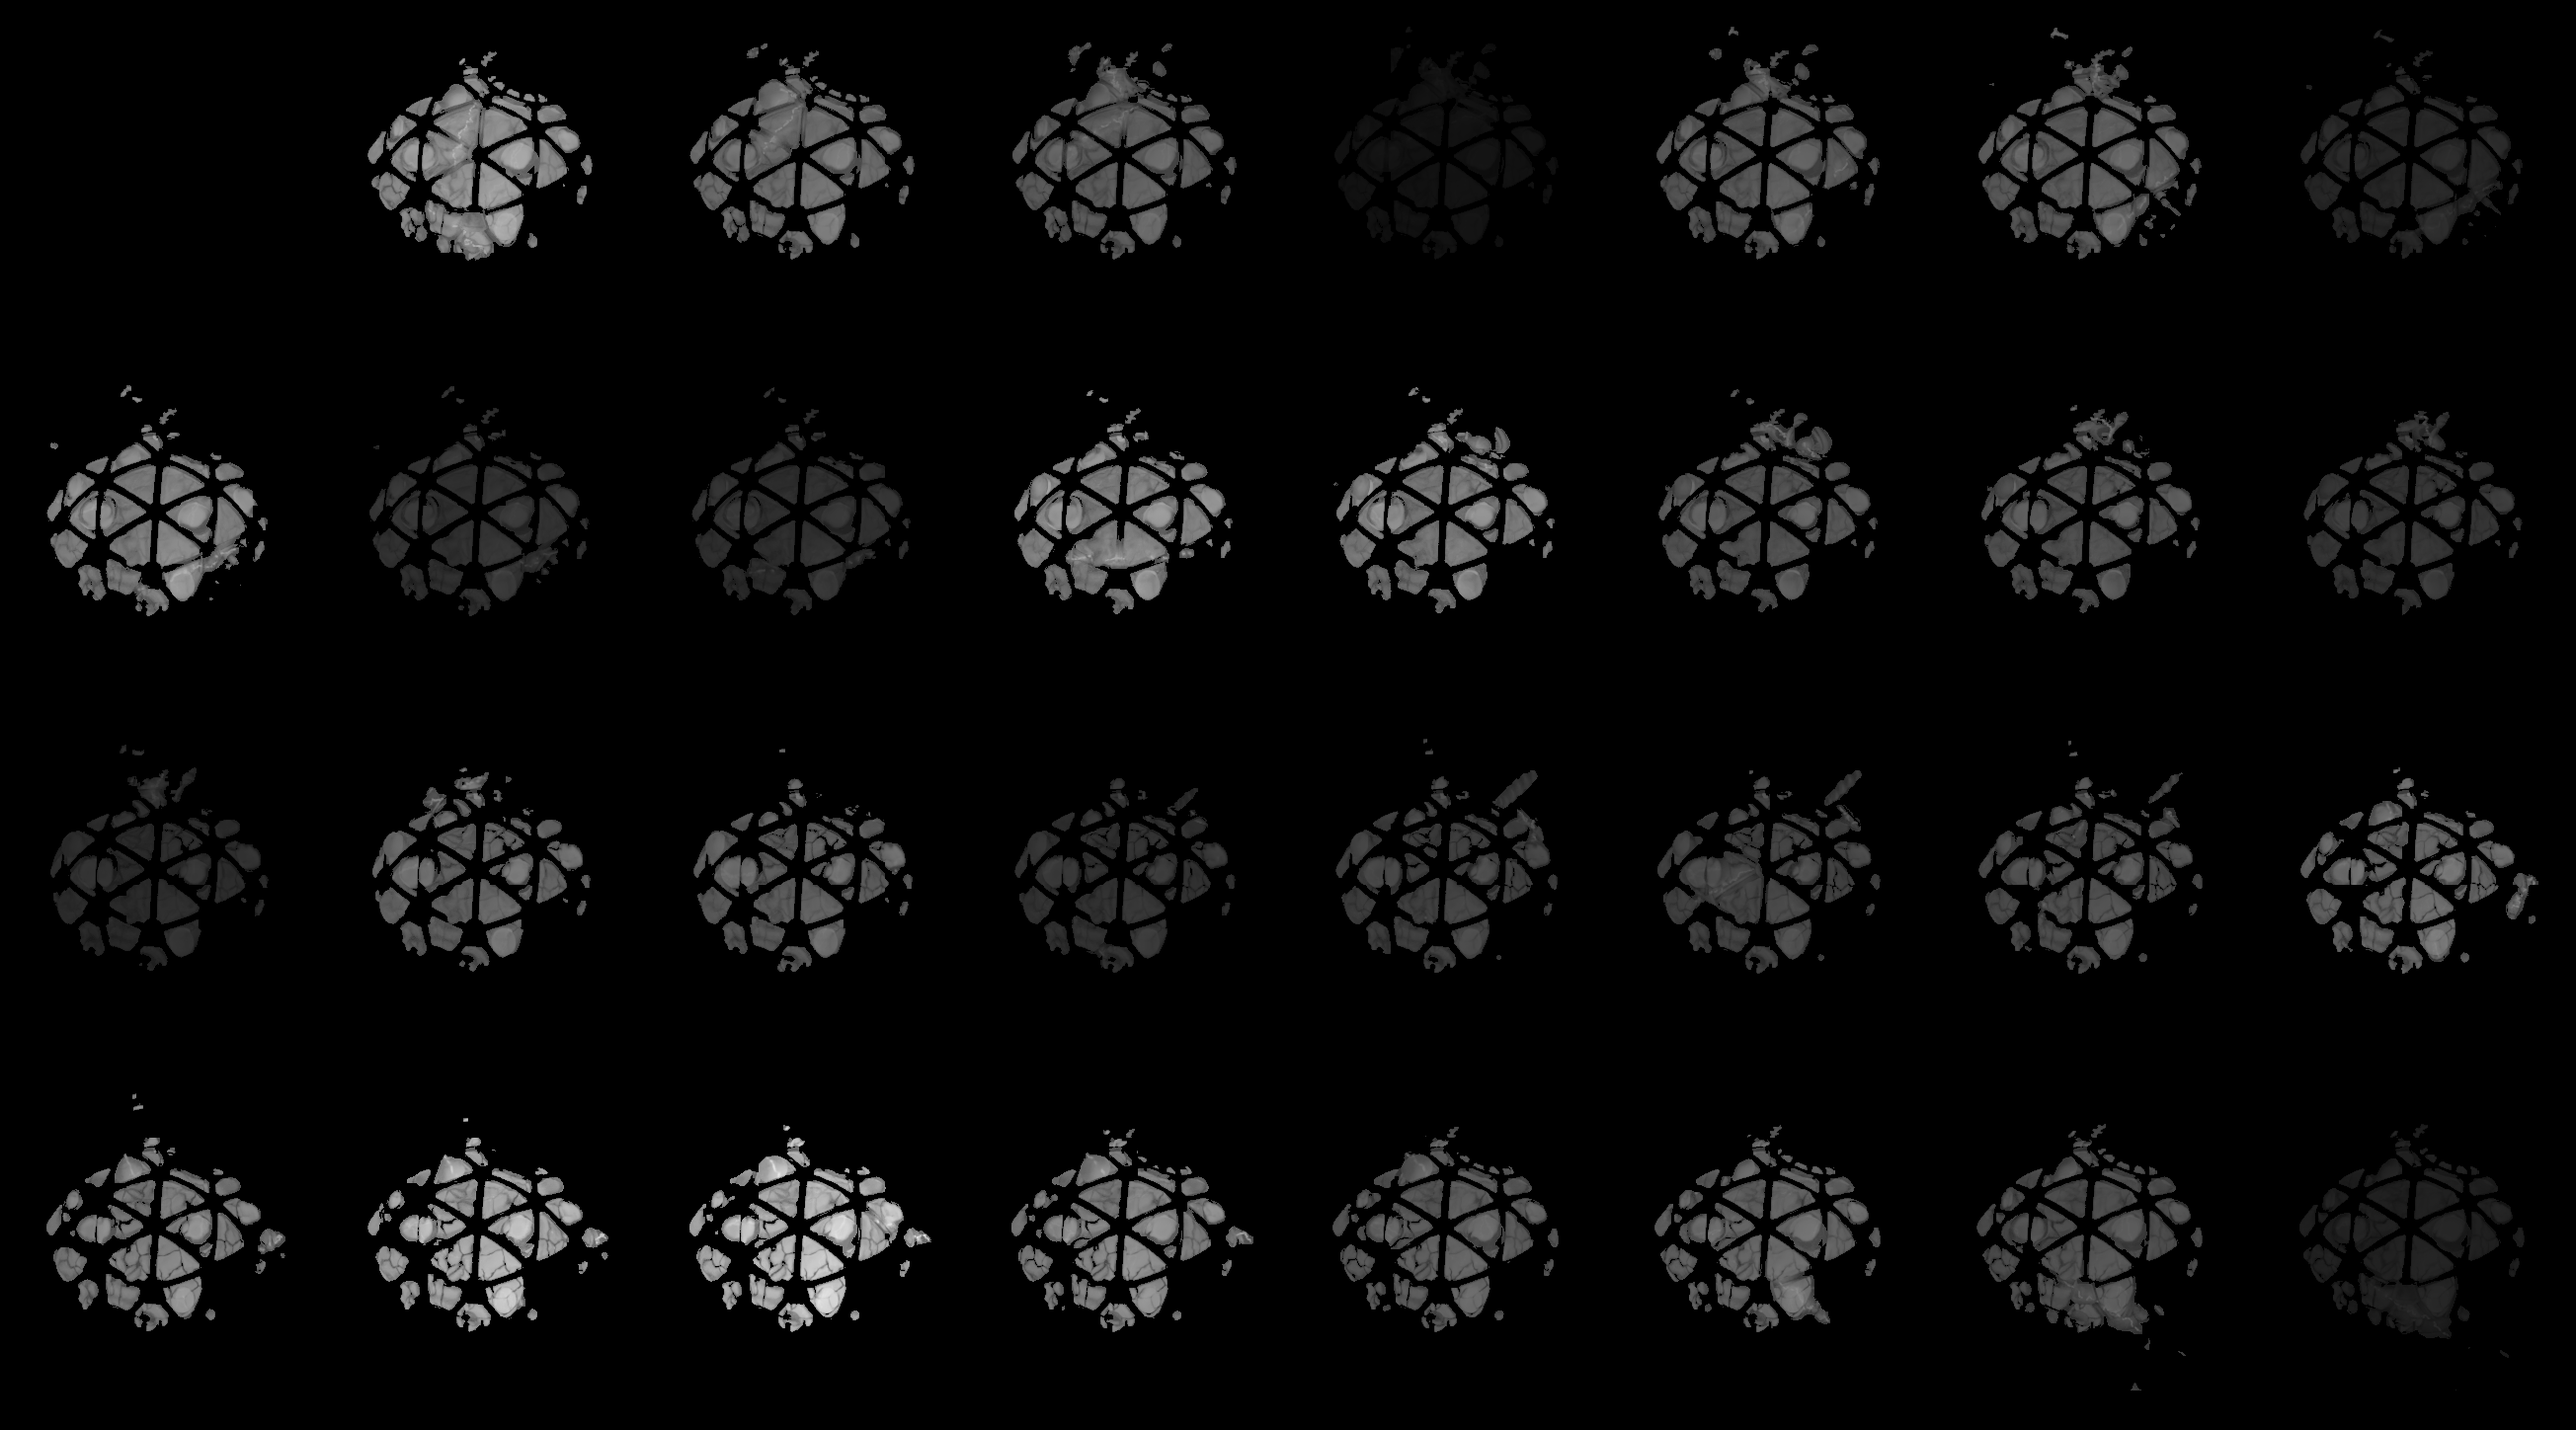
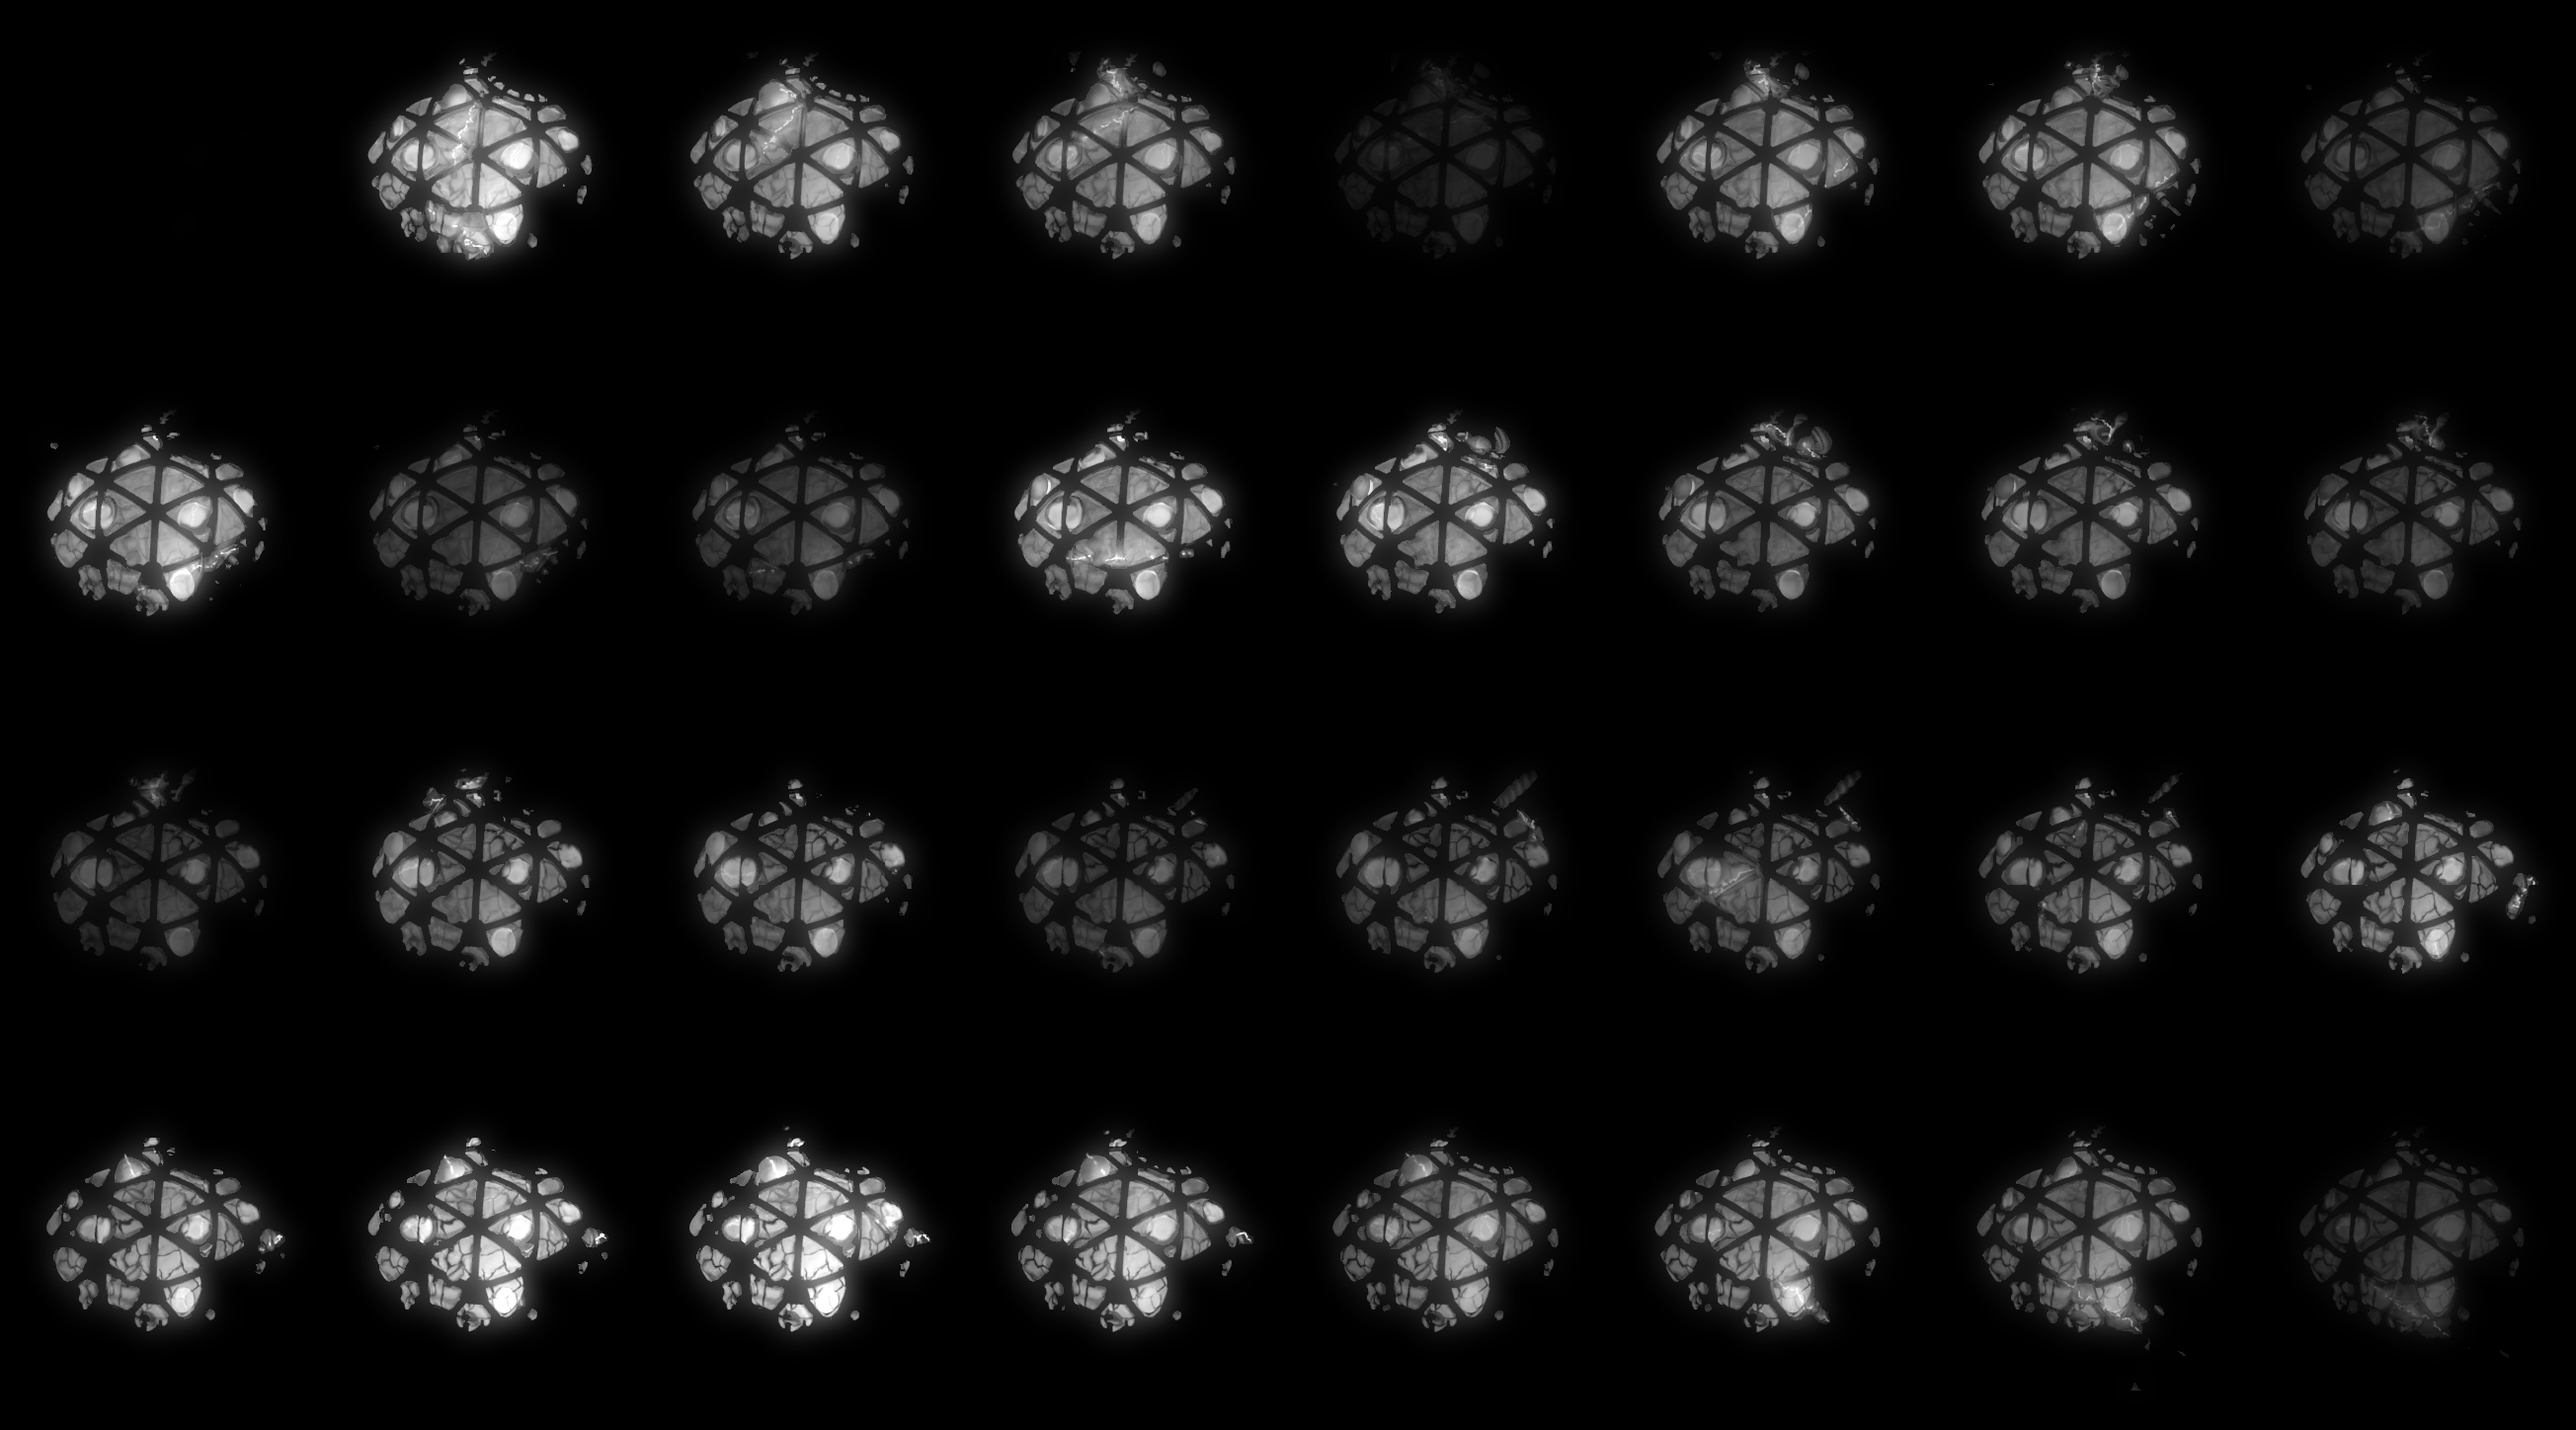
Update biolab overlay

diff --git a/tasks/update-graphics.py b/tasks/update-graphics.py
@@ -4,7 +4,7 @@ import math
 from pathlib import Path
 
 import numpy as np
-from PIL import Image
+from PIL import Image, ImageFilter
 import oxipng
 
 # https://wiki.factorio.com/Application_directory#Application_directory
@@ -99,6 +99,17 @@ lab_brightness_norm = [b / max_b for b in lab_frame_brightness]
 biolab_src = np.array(Image.open(BIOLAB_SRC).convert("L"))
 biolab_frames = []
 
+# Vertical fade mask: suppress stray artifact pixels near the top of each frame.
+# Artifacts (stray lights from biolab animation) appear at y≈22-40; the main body
+# starts around y=50. Hold 0 until y=BIOLAB_MASK_START, then ramp to 1 at y=BIOLAB_MASK_END.
+# Applied before glow so artifacts don't contribute to blur spread either.
+BIOLAB_MASK_START = 50
+BIOLAB_MASK_END = 70
+_biolab_top_mask = np.ones(BIOLAB_FRAME_H, dtype=np.float32)
+_biolab_top_mask[:BIOLAB_MASK_START] = 0.0
+_biolab_top_mask[BIOLAB_MASK_START:BIOLAB_MASK_END] = np.linspace(0.0, 1.0, BIOLAB_MASK_END - BIOLAB_MASK_START)
+biolab_top_mask = _biolab_top_mask[:, np.newaxis]  # column vector for broadcasting
+
 for i in range(BIOLAB_FRAMES):
     # Linear interpolation of lab brightness pattern resampled to BIOLAB_FRAMES
     t = i / BIOLAB_FRAMES  # 0.0 to (BIOLAB_FRAMES-1)/BIOLAB_FRAMES
@@ -106,11 +117,16 @@ for i in range(BIOLAB_FRAMES):
     i0 = int(pos) % LAB_FRAMES
     i1 = (i0 + 1) % LAB_FRAMES
     frac = pos - int(pos)
-    brightness = lab_brightness_norm[i0] * (1.0 - frac) + lab_brightness_norm[i1] * frac
+    brightness = (lab_brightness_norm[i0] * (1.0 - frac) + lab_brightness_norm[i1] * frac) * 2
 
     frame = extract_frame(biolab_src, i, BIOLAB_FRAME_W, BIOLAB_FRAME_H, BIOLAB_COLS)
-    leveled = apply_level(frame, white_point=0.8, gamma=6.0).astype(np.float32)
-    result = np.clip(leveled * brightness, 0, 255).round().astype(np.uint8)
+    leveled = apply_level(frame, white_point=0.8, gamma=2.0).astype(np.float32) * biolab_top_mask
+    brightened = np.clip(leveled * brightness, 0, 255)
+    # Glow: blur and screen-blend onto the brightened frame
+    glow = np.array(
+        Image.fromarray(brightened.astype(np.uint8), "L").filter(ImageFilter.GaussianBlur(radius=15))
+    ).astype(np.float32)
+    result = np.clip(255.0 - (255.0 - brightened) * (255.0 - glow) / 255.0, 0, 255).round().astype(np.uint8)
     biolab_frames.append(result)
 
 assemble_grid(biolab_frames, BIOLAB_COLS).save(BIOLAB_OVERLAY_DST)
